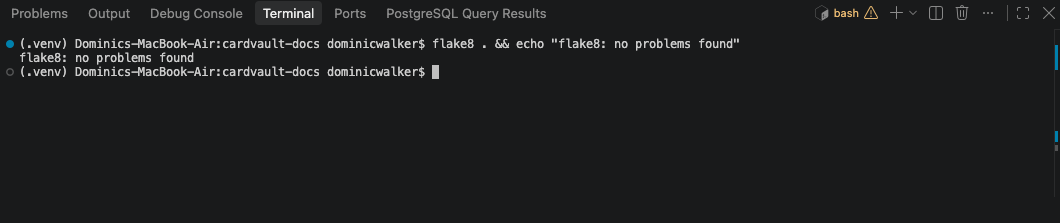
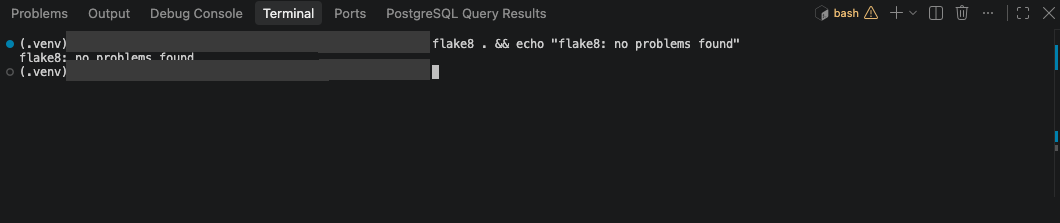
Add the AI conversation record, Jamie's hand-run tests and process evidence
50 conversation screenshots in date order with a description of each
(docs/AI_CONVERSATIONS.md), 10 of Jamie's own manual-test screenshots
in TESTING.md, and the board, milestones, Heroku and GitHub security
screenshots where the README and SECURITY.md describe them. Personal
details are covered, including the Mac username in two terminal
screenshots committed earlier. Corrects the 19 October load-test
conclusion: Heroku's metrics show the 50 stalled requests most likely
reached Heroku and timed out.

Changed region(s): [[0.0623, 0.1345, 0.4047, 0.3767]]

diff --git a/docs/AI_CONVERSATIONS.md b/docs/AI_CONVERSATIONS.md
@@ -1,0 +1,223 @@
+# AI conversations
+
+Screenshots of the conversations with Claude (Claude Code in VS Code) that built CardVault, in the order they happened. They back up the [Usage of AI](../README.md#usage-of-ai) log in the README: the log says what happened, and these show it.
+
+Jamie took the screenshots during the project and chose them; 56 were reviewed and 50 are here. Six were left out: two that show only a "thinking" indicator or an editor notice, one already in the README (the first CI run), and three that are Heroku screens, used in the README instead. Email addresses, the Mac's username and computer name, and a one-time GitHub login code are covered over, so the repository holds no personal details. Times are UK time.
+
+## Monday 12 October 2026
+
+**13:19**: Claude explains the simplified database: two tables a user owns (CollectionEntry, Review) built on User and Card
+
+![Claude explains the simplified database: two tables a user owns (CollectionEntry, Review) built on User and Card](./images/ai-conversations/2026-10-12-1319-planning-database-diagram.png)
+
+**20:55**: Asking Claude to set up Heroku: it asks for a one-time CLI login (no password in chat), plans the app, Postgres and config vars, and asks about cost and pushing to GitHub first
+
+![Asking Claude to set up Heroku: it asks for a one-time CLI login (no password in chat), plans the app, Postgres and config vars, and asks about cost and pushing to GitHub first](./images/ai-conversations/2026-10-12-2055-heroku-setup-plan.png)
+
+**20:57**: Claude creates the Heroku app in the EU region and sets the config vars without displaying the secret key
+
+![Claude creates the Heroku app in the EU region and sets the config vars without displaying the secret key](./images/ai-conversations/2026-10-12-2057-heroku-app-created.png)
+
+**21:40**: The first knowledge graph: 336 nodes, 578 links, 19 clusters, and the most connected models
+
+![The first knowledge graph: 336 nodes, 578 links, 19 clusters, and the most connected models](./images/ai-conversations/2026-10-12-2140-mind-map-first-build.png)
+
+**21:41**: The first graph's suggested questions, and Claude's caveats: a health warning, inferred links are guesses, and a shortcut it took
+
+![The first graph's suggested questions, and Claude's caveats: a health warning, inferred links are guesses, and a shortcut it took](./images/ai-conversations/2026-10-12-2141-mind-map-suggested-questions.png)
+
+**21:41**: The first graph's most connected nodes and surprising connections
+
+![The first graph's most connected nodes and surprising connections](./images/ai-conversations/2026-10-12-2141-mind-map-surprising-connections.png)
+
+**21:51**: The mind map committed with only three safe files, after a scan for secrets and local paths; two corrections to what Claude said earlier
+
+![The mind map committed with only three safe files, after a scan for secrets and local paths; two corrections to what Claude said earlier](./images/ai-conversations/2026-10-12-2151-mind-map-committed.png)
+
+## Tuesday 13 October 2026
+
+**16:29**: Claude Code running three helpers in parallel to read the docs, wireframes and ERD for the mind map
+
+![Claude Code running three helpers in parallel to read the docs, wireframes and ERD for the mind map](./images/ai-conversations/2026-10-13-1629-graphify-helpers.png)
+
+## Wednesday 14 October 2026
+
+**16:57**: Bug #41 found and fixed: Heroku's "Wait for CI" setting blocked every deploy because no CI existed yet
+
+![Bug #41 found and fixed: Heroku's "Wait for CI" setting blocked every deploy because no CI existed yet](./images/ai-conversations/2026-10-14-1657-heroku-deploy-bug-41.png)
+
+**18:12**: The assessor's points fixed and logged as bugs #43 to #46, and the front-end CRUD with the tester cards live
+
+![The assessor's points fixed and logged as bugs #43 to #46, and the front-end CRUD with the tester cards live](./images/ai-conversations/2026-10-14-1812-assessor-fixes-and-crud.png)
+
+**18:12**: End of 14 October: 96 tests, a 39-check run on the live site, validators clean, a layout bug found only in the browser, and what was still open
+
+![End of 14 October: 96 tests, a 39-check run on the live site, validators clean, a layout bug found only in the browser, and what was still open](./images/ai-conversations/2026-10-14-1812-testing-summary-14-oct.png)
+
+## Thursday 15 October 2026
+
+**12:37**: The Pokémon TCG API returned a 502 error while building the fixture; Claude probes it before retrying
+
+![The Pokémon TCG API returned a 502 error while building the fixture; Claude probes it before retrying](./images/ai-conversations/2026-10-15-1237-api-502-error.png)
+
+**12:38**: The API kept failing under load; Claude tests which request shapes get through before changing the script
+
+![The API kept failing under load; Claude tests which request shapes get through before changing the script](./images/ai-conversations/2026-10-15-1238-api-flaky-plan.png)
+
+**12:39**: All 102 Base Set cards checked against the printed set (16 holo rares, 16 rares, 32 uncommons, 38 commons)
+
+![All 102 Base Set cards checked against the printed set (16 holo rares, 16 rares, 32 uncommons, 38 commons)](./images/ai-conversations/2026-10-15-1239-base-set-checked.png)
+
+**12:40**: The security review (#50) begins: what already protects logins, and whether any package has a known vulnerability
+
+![The security review (#50) begins: what already protects logins, and whether any package has a known vulnerability](./images/ai-conversations/2026-10-15-1240-security-review-start.png)
+
+**12:41**: The hardening step: security headers, the shared rate limit cache, admin log in through allauth, an HttpOnly CSRF cookie, and security tests
+
+![The hardening step: security headers, the shared rate limit cache, admin log in through allauth, an HttpOnly CSRF cookie, and security tests](./images/ai-conversations/2026-10-15-1241-security-hardening-step.png)
+
+**12:41**: First findings: allauth already limits log ins, pip-audit finds no vulnerabilities, no secrets in the git history
+
+![First findings: allauth already limits log ins, pip-audit finds no vulnerabilities, no secrets in the git history](./images/ai-conversations/2026-10-15-1241-security-review-findings.png)
+
+**12:43**: 111 tests and the deploy check pass; next, checking in a real browser that the new Content Security Policy blocks nothing
+
+![111 tests and the deploy check pass; next, checking in a real browser that the new Content Security Policy blocks nothing](./images/ai-conversations/2026-10-15-1243-security-tests-pass.png)
+
+**12:44**: A failing browser check traced to correct behaviour: the catalogue now shows the real Base Set cards, so the check is updated to expect them
+
+![A failing browser check traced to correct behaviour: the catalogue now shows the real Base Set cards, so the check is updated to expect them](./images/ai-conversations/2026-10-15-1244-browser-check-updated.png)
+
+**12:44**: The browser check finds no Content Security Policy problems, only the missing favicon (#35), and the admin log in goes through the rate-limited page
+
+![The browser check finds no Content Security Policy problems, only the missing favicon (#35), and the admin log in goes through the rate-limited page](./images/ai-conversations/2026-10-15-1244-csp-check-in-browser.png)
+
+**12:45**: 41 of 41 browser checks pass; the security code is committed
+
+![41 of 41 browser checks pass; the security code is committed](./images/ai-conversations/2026-10-15-1245-browser-check-passes.png)
+
+**12:45**: GitHub's Dependabot, CodeQL and a rule protecting main switched on; secret scanning with push protection was already on
+
+![GitHub's Dependabot, CodeQL and a rule protecting main switched on; secret scanning with push protection was already on](./images/ai-conversations/2026-10-15-1245-github-security-features.png)
+
+**13:11**: Reviewing a third-party Claude skills repo before installing it: is it safe, what it costs in tokens, which skills help, and why its setup step would break the assessor's rules
+
+![Reviewing a third-party Claude skills repo before installing it: is it safe, what it costs in tokens, which skills help, and why its setup step would break the assessor's rules](./images/ai-conversations/2026-10-15-1311-skills-review.png)
+
+**13:14**: Four skills installed outside the repo as fixed copies; Claude corrects itself and drops one ("retro") after reading it closely
+
+![Four skills installed outside the repo as fixed copies; Claude corrects itself and drops one ("retro") after reading it closely](./images/ai-conversations/2026-10-15-1314-skills-installed.png)
+
+**13:50**: Claude's honest advice on Docker: worth a "what if", not worth building now, and why heavy image load and duplicate cards are already handled
+
+![Claude's honest advice on Docker: worth a "what if", not worth building now, and why heavy image load and duplicate cards are already handled](./images/ai-conversations/2026-10-15-1350-docker-advice.png)
+
+**14:25**: The card-picture fallback (#51) and scaling notes added, with how it was tested, one honest limit, and a talk piece for the tutor
+
+![The card-picture fallback (#51) and scaling notes added, with how it was tested, one honest limit, and a talk piece for the tutor](./images/ai-conversations/2026-10-15-1425-picture-fallback-and-scaling.png)
+
+**16:09**: Jamie's manual test found searching "Holo" returned nothing; search now matches name, set or rarity in any order, and Jamie's email-address username needs a decision
+
+![Jamie's manual test found searching "Holo" returned nothing; search now matches name, set or rarity in any order, and Jamie's email-address username needs a decision](./images/ai-conversations/2026-10-15-1609-search-fix-from-manual-test.png)
+
+**16:41**: Claude reads Jamie's screenshot: two layout bugs and a data-loss bug (two forms on one page), with a recommendation for each
+
+![Claude reads Jamie's screenshot: two layout bugs and a data-loss bug (two forms on one page), with a recommendation for each](./images/ai-conversations/2026-10-15-1641-manual-test-bugs-57-58.png)
+
+**16:59**: Bugs #57 and #58 fixed and tested at six widths; one failure traced to Claude's own test, and a deleted screenshot Claude restored
+
+![Bugs #57 and #58 fixed and tested at six widths; one failure traced to Claude's own test, and a deleted screenshot Claude restored](./images/ai-conversations/2026-10-15-1659-bugs-57-58-fixed.png)
+
+**17:49**: The agreed brand before building: colours with one job each, light and dark mode, fonts, the card-back emblem, Poké Ball ratings and rarity badges
+
+![The agreed brand before building: colours with one job each, light and dark mode, fonts, the card-back emblem, Poké Ball ratings and rarity badges](./images/ai-conversations/2026-10-15-1749-brand-design-agreed.png)
+
+**17:50**: The planned movement, and one decision Claude asks Jamie to agree: two small notes kept in the browser, listed openly on the Privacy page
+
+![The planned movement, and one decision Claude asks Jamie to agree: two small notes kept in the browser, listed openly on the Privacy page](./images/ai-conversations/2026-10-15-1750-brand-movement-and-consent.png)
+
+**18:24**: The new brand live: emblem, favicon, light and dark mode, Poké Ball ratings, 1999 rarity badges and the first-visit intro
+
+![The new brand live: emblem, favicon, light and dark mode, Poké Ball ratings, 1999 rarity badges and the first-visit intro](./images/ai-conversations/2026-10-15-1824-brand-live.png)
+
+**18:26**: The brand's checks (contrast, validators, accessibility, 150 tests, 57 browser checks) and a keyboard bug in the ball picker caught and fixed
+
+![The brand's checks (contrast, validators, accessibility, 150 tests, 57 browser checks) and a keyboard bug in the ball picker caught and fixed](./images/ai-conversations/2026-10-15-1826-brand-checks.png)
+
+**18:37**: Full CRUD on both user-owned tables, from the front end; credit for the design ideas shared with Jamie
+
+![Full CRUD on both user-owned tables, from the front end; credit for the design ideas shared with Jamie](./images/ai-conversations/2026-10-15-1837-crud-summary.png)
+
+## Friday 16 October 2026
+
+**12:29**: Advice on the Home link and Contact page, and why an automatic email reply was left out (abuse, junk folders, a secret to keep, testing work)
+
+![Advice on the Home link and Contact page, and why an automatic email reply was left out (abuse, junk folders, a secret to keep, testing work)](./images/ai-conversations/2026-10-16-1229-contact-and-email-advice.png)
+
+## Monday 19 October 2026
+
+**12:11**: The security hardening summary: bug #66 (shared login limits), no database backups, bug #67 (long searches), the new limits and the load test
+
+![The security hardening summary: bug #66 (shared login limits), no database backups, bug #67 (long searches), the new limits and the load test](./images/ai-conversations/2026-10-19-1211-security-hardening-summary.png)
+
+**12:12**: Database security, the IP addresses allauth leaves in the cache (now cleared on every deploy), and three honest trade-offs with their fixes in the upscale plan
+
+![Database security, the IP addresses allauth leaves in the cache (now cleared on every deploy), and three honest trade-offs with their fixes in the upscale plan](./images/ai-conversations/2026-10-19-1212-security-trade-offs.png)
+
+**16:03**: The repo and board made private for a week: what stops working (CodeQL, push protection), what keeps working, and a saved checklist for switching back
+
+![The repo and board made private for a week: what stops working (CodeQL, push protection), what keeps working, and a saved checklist for switching back](./images/ai-conversations/2026-10-19-1603-repo-made-private.png)
+
+**16:26**: The CI workflow passes first time (191 tests in 40 seconds), and the one Heroku setting Jamie has to switch on himself
+
+![The CI workflow passes first time (191 tests in 40 seconds), and the one Heroku setting Jamie has to switch on himself](./images/ai-conversations/2026-10-19-1626-ci-workflow-live.png)
+
+**17:10**: During a GitHub Actions outage: why the "passing" badge did not yet cover the newest commits, and holding until confirmed
+
+![During a GitHub Actions outage: why the "passing" badge did not yet cover the newest commits, and holding until confirmed](./images/ai-conversations/2026-10-19-1710-ci-during-github-outage.png)
+
+**17:45**: CI confirmed: both stuck runs passed, and Heroku deployed 33 seconds after the checks passed (#39 closed)
+
+![CI confirmed: both stuck runs passed, and Heroku deployed 33 seconds after the checks passed (#39 closed)](./images/ai-conversations/2026-10-19-1745-ci-confirmed.png)
+
+## Monday 26 October 2026
+
+**13:29**: Sprint 1 and 2 closed; US15 to US17 live, with a layout bug the browser check caught and one of Claude's own mistakes
+
+![Sprint 1 and 2 closed; US15 to US17 live, with a layout bug the browser check caught and one of Claude's own mistakes](./images/ai-conversations/2026-10-26-1329-us15-to-us17-live.png)
+
+## Wednesday 28 October 2026
+
+**13:55**: US28 (a superuser-only admin and its walkthrough) and the Lighthouse results for every public page
+
+![US28 (a superuser-only admin and its walkthrough) and the Lighthouse results for every public page](./images/ai-conversations/2026-10-28-1355-us28-and-lighthouse.png)
+
+**13:56**: The Best Practices trade-off, WAVE's false alarm, Claude's own `path` mistake, and three short jobs for Jamie (Lighthouse, a real phone, VoiceOver)
+
+![The Best Practices trade-off, WAVE's false alarm, Claude's own `path` mistake, and three short jobs for Jamie (Lighthouse, a real phone, VoiceOver)](./images/ai-conversations/2026-10-28-1356-lighthouse-trade-off-and-jobs.png)
+
+## Thursday 29 October 2026
+
+**11:42**: Two helpers dispatched in parallel to read the changed documents and templates for the mind map refresh
+
+![Two helpers dispatched in parallel to read the changed documents and templates for the mind map refresh](./images/ai-conversations/2026-10-29-1142-mind-map-helpers-dispatched.png)
+
+**11:44**: A helper finishes; Claude logs its token cost for the mind map's cost record
+
+![A helper finishes; Claude logs its token cost for the mind map's cost record](./images/ai-conversations/2026-10-29-1144-mind-map-helper-tokens.png)
+
+**11:49**: The mind map refreshed for the end of the sprints: 1,052 nodes, its cost, its health check, and the most connected parts
+
+![The mind map refreshed for the end of the sprints: 1,052 nodes, its cost, its health check, and the most connected parts](./images/ai-conversations/2026-10-29-1149-mind-map-refreshed.png)
+
+**11:49**: The refreshed graph's surprising connections, with Claude judging which are right and which are guesses, and its suggested questions
+
+![The refreshed graph's surprising connections, with Claude judging which are right and which are guesses, and its suggested questions](./images/ai-conversations/2026-10-29-1149-mind-map-surprises-and-questions.png)
+
+**12:29**: Tracing whether the graph can be trusted (19 of 19 correct, 2 missed, two blind spots), and the finished testing write-up
+
+![Tracing whether the graph can be trusted (19 of 19 correct, 2 missed, two blind spots), and the finished testing write-up](./images/ai-conversations/2026-10-29-1229-mind-map-trust-and-testing-write-up.png)
+
+**12:30**: A mistake Claude found in its own earlier edit, the honest VoiceOver gap, and what was left for submission
+
+![A mistake Claude found in its own earlier edit, the honest VoiceOver gap, and what was left for submission](./images/ai-conversations/2026-10-29-1230-own-mistake-and-whats-left.png)

diff --git a/README.md b/README.md
@@ -356,8 +356,9 @@ this is the right balance; a bank would add a second factor instead
 **Load test, 19 October 2026:** 2,000 page visits to the live site,
 25 at a time, spread across the home page, Browse cards, a search and
 a card page: **all 2,000 succeeded, about 112 pages a second, median
-0.21 seconds, 95% within 0.33 seconds**. Details in
-[TESTING.md](./TESTING.md#load-testing).
+0.21 seconds, 95% within 0.33 seconds**. At 50 at a time, 50 of
+3,000 requests timed out, so about 25 at once is this single dyno's
+comfortable limit. Details in [TESTING.md](./TESTING.md#load-testing).
 
 **To grow further**, Heroku can run more dynos (`heroku ps:scale
 web=2`) or bigger ones, and the database plan can be upgraded, without
@@ -740,6 +741,20 @@ board, with one GitHub issue per user story, development task and bug.
 
 ![The project board on 26 October 2026: To do, In progress and Done](./docs/images/screenshots/project-board.png)
 
+**The board over time.** Jamie's own screenshots show it moving: on
+14 October most stories were still in Backlog, with the assessor's
+bugs in progress; by 19 October the Sprint 2 work had moved across.
+The milestones page on 19 October shows Sprint 1 a few days overdue
+(one hand-taken screenshot task left), which is recorded honestly in
+the sprints table below.
+
+<p>
+  <img src="./docs/images/screenshots/project-board-2026-10-14.png" alt="The project board on 14 October 2026" width="400">
+  <img src="./docs/images/screenshots/project-board-2026-10-19.png" alt="The project board on 19 October 2026" width="400">
+</p>
+
+![The milestones page on 19 October 2026: Sprint 1 at 92%, Sprint 2 at 97%, Sprint 3 at 43%](./docs/images/screenshots/milestones-2026-10-19.png)
+
 **How the board was set up**
 
 - **Four columns:** `Backlog` (planned for a later sprint), `To do`
@@ -823,6 +838,8 @@ The workflow uses a throwaway `SECRET_KEY` and database written into
 the file itself: they protect nothing real, so no repository secrets
 are needed. Heroku's **Wait for CI to pass before deploy** setting is
 on, so a push only reaches the live site once both jobs pass.
+
+![Heroku's Deploy tab: automatic deploys from main, waiting for GitHub checks to pass](./docs/images/screenshots/heroku-wait-for-ci.png)
 
 Bandit skips the test files, whose made-up passwords it would flag.
 Every other line it flags but that is safe carries a `# nosec` marker
@@ -1012,7 +1029,11 @@ cd <your-repo>
 
 AI (Claude, via Claude.ai for planning and Claude Code for building) was used throughout this project as a
 collaborator for planning, debugging, and reviewing &mdash; not as a
-replacement for understanding the code. The log below covers the
+replacement for understanding the code. Screenshots of the conversations themselves, 50 of them in date order
+with what each one shows, are in
+**[docs/AI_CONVERSATIONS.md](./docs/AI_CONVERSATIONS.md)**.
+
+The log below covers the
 three areas the checklist asks about, **debugging**, **developing
 features** and **automated tests**, plus planning, design, security
 and code quality. Each entry names the actual problem, what the AI
@@ -1040,7 +1061,7 @@ the AI's own mistakes.
 | 2026-10-15 | Debugging | A keyboard-only test of the new Poké Ball picker found that Tab landed on the 5th ball and the left arrow moved right, a side effect of the CSS trick first used to fill the balls. Rebuilt with the CSS `:has()` selector in natural 1 to 5 order (after checking the CSS validator accepts it), then re-tested with real key presses and mouse clicks. |
 | 2026-10-16 | Design | Asked Claude to make the rarity symbols in the home page banner float rather than sit still. Claude pointed out that endless movement needs a way to pause it (WCAG 2.2.2) and that the Accessibility page promised movement "never loops", so it added a "Pause animation" button, updated that page, and checked that the button never covers the banner's text from 320px up, that pausing really stops the symbols, and that reduced motion still switches everything off. |
 | 2026-10-16 | Developing features | Asked Claude for a Home link and a Contact page (name, email, message, and a thank-you banner telling people to check their junk folder), and whether an automatic no-reply email was worth it. Claude advised against the email for now: anyone can type any address, so the form could be used to send mail to strangers, new senders often land in junk, and it would mean keeping a mail password on Heroku. I agreed to save messages for the admin instead and reply by hand from a dedicated mailbox. Claude built a `contact` app with a hidden bot trap and a 5-an-hour limit (storing a hash of the IP address, not the address), 19 tests, and updated the Privacy page, which had said we never ask for an email address. A browser check found the extra links pushed the logged-in header onto two rows at tablet widths, so the Menu button now appears below 1024px. |
-| 2026-10-19 | Security | Asked Claude to harden the site against password guessing and heavy traffic, cut log in tries to 3, and manage the database properly. Claude found that the existing per-IP limits never saw real visitors on Heroku: every request arrives from Heroku's router, so all visitors shared one count and 10 wrong passwords could pause logging in for everyone (bug #66). It set `ALLAUTH_TRUSTED_PROXY_COUNT`, wrote tests proving a faked `X-Forwarded-For` does not help, capped searches that could build huge queries (bug #67), added a 10-second query limit, threaded gunicorn workers and a branded 429 page, and found the live database had no backups, so scheduled daily ones and checked the first contained every table. It load tested the live site and, when a heavier run stalled, checked Heroku's router logs before blaming the site: the stalled requests never reached Heroku. |
+| 2026-10-19 | Security | Asked Claude to harden the site against password guessing and heavy traffic, cut log in tries to 3, and manage the database properly. Claude found that the existing per-IP limits never saw real visitors on Heroku: every request arrives from Heroku's router, so all visitors shared one count and 10 wrong passwords could pause logging in for everyone (bug #66). It set `ALLAUTH_TRUSTED_PROXY_COUNT`, wrote tests proving a faked `X-Forwarded-For` does not help, capped searches that could build huge queries (bug #67), added a 10-second query limit, threaded gunicorn workers and a branded 429 page, and found the live database had no backups, so scheduled daily ones and checked the first contained every table. It load tested the live site and, when a heavier run stalled, checked Heroku's router logs and concluded the stalled requests never reached Heroku. That turned out to be wrong (see the 29 October entry on the conversation screenshots). |
 | 2026-10-19 | Developing features | Built the custom error pages (US25) with Claude. Claude made the 500 page plain HTML because Django renders it without context, and noticed while writing it that the page's promise ("the problem has been recorded") was untrue: with `DEBUG` off, Django logged nothing, so live crashes left no trace (bug #69). It added logging, then ran the site locally in production mode, starting a second copy pointed at a database that does not exist to cause a real 500. A first run showed every page failing; rather than change the site, Claude traced it to its own mistake (static files collected with `DEBUG` on) and redid the check properly. |
 | 2026-10-19 | Automated tests | Asked Claude to set up the CI workflow (#39), adding free security scans because CodeQL stops while the repo is private. Before writing the workflow, Claude ran Bandit and pip-audit locally and went through all 21 Bandit findings: 12 were made-up passwords in tests (tests excluded from the scan), and the other 9 were checked line by line and each marked `# nosec` with the reason it is safe. When Bandit said one marker was unnecessary, Claude removed it, saw the finding come back, and restored it rather than trusting the warning. The workflow passed first time: 191 tests in 40 seconds. |
 | 2026-10-26 | Developing features | Built US15 to US17 (My Cards totals, sort and filter, Got it!) with Claude, following the acceptance criteria already in the user stories. Claude worked out the database cost first (an existing test fixes how many queries My Cards makes) and kept it fixed, with the totals in one query. Its browser check measured every Got it! button against its table cell and found the button spilling into the Quantity column on wide screens, which the tests could not see; it moved the button onto its own line and re-measured at five widths. A first HTML check validated an error page by mistake (the test client was refused by the host check); Claude noticed the expected content was missing and redid it. |
@@ -1052,3 +1073,4 @@ the AI's own mistakes.
 | 2026-10-29 | Planning (mind map) | Asked Claude to check whether the mind map can be trusted, starting with the 19 links it guessed for the `Card` model. Claude wrote a script that reads every class and function in the code for a reference to `Card`, and compared the two: all 19 claimed links were correct, but the graph missed 2 real uses. Rather than stop there, it formed two explanations and tested them on the other models: graphify never links a reference inside a decorator (none of the four admin classes) or to a class in the same file (`Card` to `CardSet`), but always links one made through an import. Recorded in the mind map section. |
 | 2026-10-29 | Automated tests | Finished the testing write-up (#36) with Claude. It ran a coverage report for the first time (99% of the site's code; the rest is production-only settings) and found three small untested paths, which it covered with new tests. It added a table giving every user story's manual test and result, and re-checked three stories with fresh evidence: reviews on the live site (US21), loading the catalogue twice into a brand-new database with no duplicates (US27), and a full secret scan of all 60 commits (US26). A link check then exposed a mistake from its own earlier edit: adding the Load testing section had deleted the Validators heading, which it restored. |
 | 2026-10-29 | Documentation | Asked Claude for an architecture diagram and a tidy of the Agile section for the submission checklist (#70). Claude first read which apps actually import from which, then drew three Mermaid diagrams (the whole system, how the code is organised, and one request from start to finish) and rendered all five diagrams in the README in Chrome with the same Mermaid library GitHub uses, to prove they draw. It rewrote the Agile section from setup instructions into an account of what was done, with the real issue and milestone counts from GitHub; checking those against GitHub caught one error before it was committed (the error pages were in Sprint 3, not Sprint 2). |
+| 2026-10-29 | Documentation | Gave Claude my folders of screenshots from the project to sort for the submission. Claude read all 56 conversation screenshots one by one, kept 50 with a description of each in docs/AI_CONVERSATIONS.md, and chose 10 of my 44 manual-test screenshots for TESTING.md. It covered personal details with a script using the Mac's own text recognition (my email, the Mac's username, a one-time login code), then scanned every image again, including the 90 already in the repo, and found the Mac's username in two terminal screenshots committed earlier, which it replaced. Reading Heroku's metrics from that week, it noticed they contradict its own 19 October conclusion about the load test: the 50 stalled requests most likely did reach Heroku and timed out. It corrected TESTING.md and the README rather than leave the earlier claim. |

diff --git a/TESTING.md b/TESTING.md
@@ -222,6 +222,39 @@ these screenshots: the repository is public, and keeping the
 superuser's name out of view is part of the
 [security design](./README.md#running-the-site-the-django-admin).
 
+### Jamie's own hand-run tests
+
+Alongside the scripted browser runs, Jamie tested the site by hand on
+the live site as each part was built, taking 44 screenshots between
+13 and 16 October 2026. Ten of them are below; his email address
+(his username at the time) is covered over. Two of these tests found
+real bugs that the automated tests had not.
+
+| Date | What Jamie did | What it showed |
+|---|---|---|
+| 13 Oct | Registered and logged in | "Success: Welcome back" and the empty My Cards page (also issue #40) |
+| 14 Oct | Added the tester cards AAA, BBB and CCC | Each listed, with "Success: CCC was added to your cards." |
+| 14 Oct | Wrote a review, then started to delete it | The review with Edit and Delete buttons, then a confirmation page before anything was deleted (the email cover also hides the rating next to it) |
+| 15 Oct | Opened Register after the age check was added | The date of birth field, with "Used only to check your age. It is not stored." |
+| 15 Oct | Searched for "Holo" | **Found 0 cards: a bug.** Search only matched card names; it now matches name, set or rarity (fixed the same day, US09) |
+| 15 Oct | Used My Cards with long notes | **Two bugs:** the card name ran into the Set column (#57), and his own note recorded that submitting a review wiped unsaved notes on the same page (#58). Both fixed that afternoon |
+| 15 Oct | Logged in with a wrong password | "Error: Invalid username or password. Please try again." |
+| 15 Oct | Opened Delete my account | What would be deleted (3 cards, 2 reviews) and a password check |
+| 16 Oct | Sent a Contact message | The form, with his username filled in as his name |
+
+<p>
+  <img src="./docs/images/manual-tests/2026-10-13-login-welcome-back.png" alt="Jamie logged in: Welcome back and an empty My Cards" width="400">
+  <img src="./docs/images/manual-tests/2026-10-14-add-tester-cards.png" alt="Jamie's My Cards with the tester cards AAA, BBB and CCC" width="400">
+  <img src="./docs/images/manual-tests/2026-10-14-review-submitted.png" alt="Jamie's review with Edit and Delete buttons" width="400">
+  <img src="./docs/images/manual-tests/2026-10-14-review-delete-confirm.png" alt="The confirmation page before deleting a review" width="400">
+  <img src="./docs/images/manual-tests/2026-10-15-register-age-check.png" alt="Register with the date of birth field" width="400">
+  <img src="./docs/images/manual-tests/2026-10-15-search-holo-found-nothing.png" alt="Searching Holo found nothing, before the search fix" width="400">
+  <img src="./docs/images/manual-tests/2026-10-15-my-cards-layout-and-note.png" alt="My Cards with the layout bug and Jamie's note about lost text" width="400">
+  <img src="./docs/images/manual-tests/2026-10-15-login-wrong-password.png" alt="Log in with a wrong password" width="400">
+  <img src="./docs/images/manual-tests/2026-10-15-delete-account.png" alt="Delete my account, listing what will be deleted" width="400">
+  <img src="./docs/images/manual-tests/2026-10-16-contact-form.png" alt="The Contact form with the username filled in" width="400">
+</p>
+
 ### User testing by others
 
 On 29 October 2026 two of Jamie's friends, `charliebiggin` and
@@ -584,16 +617,29 @@ was created or changed.
 | 2 | 3,000 | 50 | 2,950 succeeded; 50 timed out on the test computer | 53 | 0.45s | 0.91s | 30s (the timeouts) |
 | 3 | 1,000 | 25 | All 1,000 succeeded | 119 | 0.17s | 0.42s | 0.59s |
 
-**What the 50 timeouts were:** Heroku's router logs every request it
-receives. For run 2 they showed only successful responses (status
-200), the slowest taking 0.66 seconds, with no errors. The 50 stalled
-requests, exactly one per simultaneous connection, never reached
-Heroku: they were stuck on the test computer opening 50 secure
-connections at once. A repeat of run 2 stalled on the test computer
-before sending anything (Heroku's logs showed no requests and the live
-site kept answering in 0.16 seconds), so it was stopped, and run 3
-confirmed the earlier result. The site's limit was not reached; 50 at
-a time is the test computer's limit.
+![Heroku's metrics after the load test: 50 critical errors in the last 24 hours](./docs/images/screenshots/heroku-metrics-load-test.png)
+
+**What the 50 timeouts were, corrected on 29 October 2026.** On the
+day, the router log lines checked showed only successful responses
+(status 200, the slowest 0.66 seconds), and the conclusion recorded
+was that the 50 stalled requests never reached Heroku. That was too
+confident: only the last 1,500 log lines were read, about 737 router
+entries, a quarter of run 2's 3,000 requests. Heroku's own metrics,
+screenshotted by Jamie later that morning (above), counted **50
+request timeouts** in the last 24 hours, exactly the number of
+requests that stalled, one for each of the 50 simultaneous
+connections. So those 50 requests most likely did reach Heroku and
+were not answered within Heroku's 30-second limit. The exact cause
+cannot now be confirmed, as the full logs from that hour are no
+longer kept.
+
+What can be said: with 25 visitors at a time (runs 1 and 3) every
+request succeeded, quickly; at 50 at a time, 1 request in 60 timed
+out on one Basic dyno. Handling more than about 25 at once would need
+more dynos (`heroku ps:scale web=2`) or a bigger one, as the README's
+"Handling heavy traffic" section says. A repeat of run 2 stalled on
+the test computer before sending anything and was stopped; the live
+site kept answering in 0.16 seconds throughout.
 
 ## Validators
 

diff --git a/SECURITY.md b/SECURITY.md
@@ -131,6 +131,8 @@ explains this for users.
   push.
 - The `main` branch cannot be force-pushed or deleted.
 
+![GitHub's security overview for the repository: every feature enabled](./docs/images/screenshots/github-security-overview.png)
+
 ## Reporting a vulnerability
 
 Please report security problems **privately**, not in a public issue:
